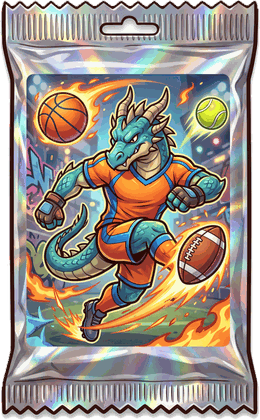
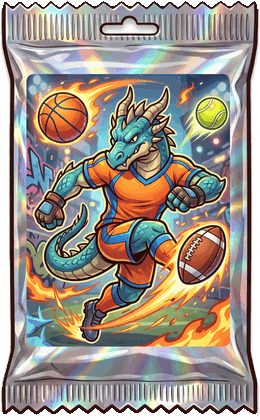
Booster : bas du paquet re-détouré, reflet fluide qui suit la forme du paquet, icône du bouton qui ne cache plus le texte

diff --git a/js/assets.js b/js/assets.js
@@ -1,3 +1,3 @@
 /* généré par tools/manifest.py */
 window.ASSETS = ["ach-aga100", "ach-agr3", "ach-bets50", "ach-bets500", "ach-boo50", "ach-car1", "ach-car7", "ach-cards30", "ach-cards60", "ach-club10", "ach-combi20", "ach-combi3", "ach-cool50", "ach-cr10", "ach-crp25", "ach-dance30", "ach-deal10", "ach-deal50", "ach-decos5", "ach-first-bet", "ach-garage3", "ach-gold5", "ach-hodl", "ach-item10", "ach-jackpot", "ach-look2", "ach-lvl10", "ach-lvl20", "ach-mine10", "ach-mine200", "ach-prop1", "ach-prop4", "ach-quests5", "ach-resell25", "ach-rigmax", "ach-roul50", "ach-roul500", "ach-scr50", "ach-scr500", "ach-ser1", "ach-ser5", "ach-skin3", "ach-slots4", "ach-sneak5", "ach-spin100", "ach-spin1000", "ach-stk10", "ach-stock50", "ach-streak7", "ach-tip20", "ach-w100k", "ach-w10k", "ach-w1m", "ach-watch3", "ach-win10", "ach-win100", "ach-win500", "act-collab", "act-live", "act-rest", "act-shoot", "act-trip", "app-agence", "app-bank", "app-bets", "app-binder", "app-boosters", "app-crypto", "app-immo", "app-infos", "app-missions", "app-msg", "app-objets", "app-settings", "art-c-signed", "art-cdm-bal", "art-cdm-citrouille", "art-cdm-coupe", "art-cdm-demon", "art-cdm-fantome", "art-cdm-lune", "art-cdm-vampire", "art-cdm-zombie", "art-coach-foot", "art-coach-tennis", "art-fan-ultra", "art-k-b1", "art-k-b10", "art-k-b11", "art-k-b12", "art-k-b2", "art-k-b3", "art-k-b4", "art-k-b5", "art-k-b6", "art-k-b7", "art-k-b8", "art-k-b9", "art-k-f1", "art-k-f10", "art-k-f11", "art-k-f12", "art-k-f13", "art-k-f14", "art-k-f15", "art-k-f16", "art-k-f17", "art-k-f18", "art-k-f19", "art-k-f2", "art-k-f20", "art-k-f21", "art-k-f22", "art-k-f23", "art-k-f24", "art-k-f3", "art-k-f4", "art-k-f5", "art-k-f6", "art-k-f7", "art-k-f8", "art-k-f9", "art-k-r1", "art-k-r2", "art-k-r3", "art-k-r4", "art-k-r5", "art-k-r6", "art-k-t1", "art-k-t10", "art-k-t11", "art-k-t12", "art-k-t2", "art-k-t3", "art-k-t4", "art-k-t5", "art-k-t6", "art-k-t7", "art-k-t8", "art-k-t9", "art-mascot", "art-ref-foot", "art-six-cap-1", "art-six-cap-2", "art-six-cap-3", "badge-xe", "bed-laptop-f", "bed-laptop-m", "bg-city", "bg-city-hiver", "bg-city-neon", "bg-city-or", "bg-city-renov", "bld-appart", "bld-appart-hiver", "bld-appart-neon", "bld-appart-or", "bld-appart-renov", "bld-balto", "bld-balto-hiver", "bld-balto-neon", "bld-balto-or", "bld-balto-renov", "bld-bijou", "bld-casino", "bld-casino-hiver", "bld-casino-neon", "bld-casino-or", "bld-casino-renov", "bld-club", "bld-club-hiver", "bld-club-or", "bld-club-renov", "bld-garage", "bld-kiosque", "bld-kiosque-hiver", "bld-kiosque-neon", "bld-kiosque-or", "bld-kiosque-renov", "bld-parking", "bld-parking-hiver", "bld-parking-neon", "bld-parking-or", "bld-parking-renov", "bld-shop", "bld-shop-hiver", "bld-shop-neon", "bld-shop-or", "bld-shop-renov", "bld-six", "bld-six-hiver", "bld-six-neon", "bld-six-off", "bld-six-or", "bld-six-renov", "bld-tour", "bonus-airdrop", "bonus-cash", "bonus-freebet", "bonus-lingots", "bonus-ticket", "bonus-xp", "booster-pack", "btn-momo", "btn-setup", "btn-upgrade", "card-back", "card-back-crea", "card-bg-basket", "card-bg-foot", "card-bg-rugby", "card-bg-tennis", "casino-machine", "cat-car", "cat-card", "cat-crea", "cat-gem", "cat-gold", "cat-moto", "cat-sneaker", "cat-trophy", "cat-watch", "chip-1", "chip-10", "chip-100", "chip-25", "chip-5", "chip-500", "club-door", "club-room", "coin-btk", "coin-dgk", "coin-eta", "coin-lmn", "coin-ppc", "coin-slr", "cr-eva", "cr-ines", "cr-jade", "cr-kim", "cr-leila", "cr-lola", "cr-mila", "cr-nora", "cr-rose", "cr-sasha", "cred-boss", "cred-caid", "cred-hustler", "cred-magnat", "crest-b1", "crest-b10", "crest-b11", "crest-b12", "crest-b2", "crest-b3", "crest-b4", "crest-b5", "crest-b6", "crest-b7", "crest-b8", "crest-b9", "crest-f1", "crest-f10", "crest-f11", "crest-f12", "crest-f13", "crest-f14", "crest-f15", "crest-f16", "crest-f17", "crest-f18", "crest-f19", "crest-f2", "crest-f20", "crest-f21", "crest-f22", "crest-f23", "crest-f24", "crest-f3", "crest-f4", "crest-f5", "crest-f6", "crest-f7", "crest-f8", "crest-f9", "crest-r1", "crest-r2", "crest-r3", "crest-r4", "crest-r5", "crest-r6", "deco-chaudron", "deco-citrouilles", "deco-dc-arcade", "deco-dc-ball", "deco-dc-bench", "deco-dc-car", "deco-dc-flags", "deco-dc-fountain", "deco-dc-kebab", "deco-dc-lamp", "deco-dc-palm", "deco-dc-posts", "deco-dc-statue", "deco-dc-trophy", "deco-toiles", "deco-tombe", "ev-boost", "ev-cdm-bg", "ev-cdm-board", "ev-cdm-candy", "ev-cdm-chest", "ev-cdm-cup", "ev-rig", "ev-sale", "ev-xp", "frame-cdm", "frame-gold", "frame-six", "full-c-ace", "full-c-ballon", "full-c-dunk", "full-c-essai", "full-c-final", "full-c-goat", "full-c-graded", "full-coach", "full-k-b4", "full-k-f4", "full-k-f8", "full-k-t1", "full-rookie", "full-six-leg-kick", "full-six-leg-trophy", "fx-smoke", "gear-cam", "gear-cosplay", "gear-gown", "gear-mic", "gear-ring", "gear-spa", "gear-sport", "gear-studio", "gear-travel", "gift-big", "gift-open", "graded-slab", "guide", "hab-club", "hab-drink", "hab-smoke", "hdr-daily", "hdr-levelup", "hdr-missions", "hdr-settings", "ic-ad-reward", "ic-bell", "ic-burn", "ic-bus", "ic-club-bar", "ic-club-dance", "ic-club-dj", "ic-club-door", "ic-club-lounge", "ic-club-vip", "ic-down", "ic-ev-cdm", "ic-fan", "ic-flame", "ic-heat", "ic-info", "ic-mood", "ic-pickaxe", "ic-promo", "ic-promo-bf", "ic-promo-halloween", "ic-promo-noel", "ic-rumor", "ic-shelf", "ic-shop-lingots", "ic-shop-ville", "ic-sport-all", "ic-sport-basket", "ic-sport-foot", "ic-sport-tennis", "ic-subs", "ic-target", "ic-timer", "ic-truck", "ic-unlock", "ic-up", "ic-videur", "ic-virus", "icon-arrowL", "icon-arrowR", "icon-bolt", "icon-cash", "icon-check", "icon-dice", "icon-gear", "icon-gift", "icon-lingot", "icon-lock", "icon-mute", "icon-sound", "icon-star", "icon-treasure", "icon-trophy", "item-c-1st", "item-c-dragon", "item-c-holo", "item-c-psa10", "item-c-signed", "item-cr-betonnard", "item-cr-biscotto", "item-cr-bitumouche", "item-cr-canardo", "item-cr-chenillette", "item-cr-cosmo", "item-cr-crocodalle", "item-cr-electrochat", "item-cr-escargoat", "item-cr-fenekko", "item-cr-flamenkoh", "item-cr-fourmidable", "item-cr-golemneon", "item-cr-gorilleur", "item-cr-grenouf", "item-cr-herissnik", "item-cr-hiboss", "item-cr-kaiju", "item-cr-kebabzor", "item-cr-kraken", "item-cr-licornette", "item-cr-liontours", "item-cr-louperiph", "item-cr-matouz", "item-cr-moustikass", "item-cr-pandagrillz", "item-cr-parrain", "item-cr-phenix", "item-cr-pigeonnard", "item-cr-poubellou", "item-cr-ratchou", "item-cr-requinoir", "item-cr-scarabling", "item-cr-serpentdor", "item-cr-taupecash", "item-cr-tigresko", "item-cr-trotilezard", "item-cr-yetiz", "item-g-comic", "item-g-diam", "item-g-earrings", "item-g-egg", "item-g-emerald", "item-g-pearl", "item-g-roman", "item-g-ruby", "item-g-sapphire", "item-g-stamp", "item-m-cafe", "item-m-chopper", "item-m-cross", "item-m-road", "item-m-scoot", "item-m-sport", "item-m-touring", "item-m-trike", "item-o-bar10", "item-o-bar100", "item-o-chain", "item-o-lion", "item-o-napo", "item-o-nugget", "item-o-ring", "item-p-flat", "item-p-office", "item-p-park", "item-p-studio", "item-s-basket", "item-s-camo", "item-s-chunky", "item-s-collab", "item-s-court", "item-s-gold", "item-s-graff", "item-s-lux", "item-s-moon", "item-s-neon", "item-s-retro", "item-s-runner", "item-s-skate", "item-st-kbc", "item-st-mtr", "item-st-nbk", "item-st-pxl", "item-st-sol", "item-st-stw", "item-t-collect", "item-t-combi", "item-t-first", "item-t-hodl", "item-t-jackpot", "item-v-city", "item-v-electric", "item-v-gti", "item-v-hyper", "item-v-muscle", "item-v-pickup", "item-v-rally", "item-v-super", "item-v-unique", "item-v-van", "item-w-chrono", "item-w-digital", "item-w-diver", "item-w-field", "item-w-grail", "item-w-iced", "item-w-pilot", "item-w-pocket", "item-w-quartz", "item-w-sq", "item-w-steel", "item-w-tourb", "item-w-unique", "load-1", "load-2", "load-3", "load-4", "load-5", "load-6", "load-7", "load-8", "logo", "medal-bronze", "medal-gold", "medal-silver", "minerv-0", "minerv-1", "minerv-2", "minerv-3", "minerv-4", "nav-bets", "nav-city", "nav-home", "nav-shop", "nav-trading", "nav-wallet", "niche-beaute", "niche-bienetre", "niche-cuisine", "niche-danse", "niche-fitness", "niche-gaming", "niche-mode", "niche-musique", "niche-voyage", "pack-collec", "pack-magnat", "pack-noads", "pack-pass", "pack-start", "parking-bg", "parking-bg-2", "parking-bg-3", "parking-bg-4", "parking-bg-5", "pc-0", "pc-1", "pc-2", "pcv-0", "pcv-1", "pcv-2", "pcv-r1", "pcv-r2", "pcv-r3", "pcv-r4", "phone-wall", "pin-demons", "pin-fantomes", "pin-gold", "pin-vampires", "pin-zombies", "player-t1", "player-t10", "player-t11", "player-t12", "player-t2", "player-t3", "player-t4", "player-t5", "player-t6", "player-t7", "player-t8", "player-t9", "pop-starter", "rig-0", "rig-1", "rig-2", "rig-3", "rig-4", "rigv-0", "rigv-1", "rigv-2", "rigv-3", "rigv-4", "ringlight", "room-f-0", "room-f-1", "room-f-2", "room-m-0", "room-m-1", "room-m-2", "roulette-felt", "roulette-hub", "scr-beer", "scr-burger", "scr-cap", "scr-dice", "scr-headphones", "scr-scooter", "shop-hero", "shop-lingot-1", "shop-lingot-2", "shop-lingot-3", "shop-lingot-4", "shop-lingot-5", "shop-lingot-6", "skin-boss", "skin-boss-bust", "skin-doudoune", "skin-doudoune-bust", "skin-flambeur", "skin-flambeur-bust", "skin-gold", "skin-gold-bust", "skin-hoodie", "skin-hoodie-bust", "skin-sportive", "skin-sportive-bust", "skin-survet", "skin-survet-bust", "slot-bar", "slot-bell", "slot-cherry", "slot-diam", "slot-lemon", "slot-seven", "team-demons", "team-fantomes", "team-vampires", "team-zombies", "ticket-flash", "tip-crypto", "tip-market", "tip-sport", "tk-astro", "tk-banco", "tk-black", "tk-flash", "tk-millio", "tk-morpion", "tkbg-astro", "tkbg-banco", "tkbg-black", "tkbg-flash", "tkbg-millio", "tkbg-morpion", "ui-avatar-frame", "ui-badge", "ui-bar-fill", "ui-bar-frame", "ui-btn-blue", "ui-btn-close", "ui-btn-green", "ui-btn-grey", "ui-btn-plus", "ui-btn-purple", "ui-btn-red", "ui-btn-yellow", "ui-card", "ui-casino-frame", "ui-casino-header", "ui-navbtn", "ui-panel", "ui-pill", "ui-ribbon", "ui-tab-off", "ui-tab-on", "ui-tuto-arrow", "wx-bear", "wx-bull", "wx-calm", "wx-fomo", "wx-krach"];
-window.ASSET_V = 1791447012;
+window.ASSET_V = 1791447196;

diff --git a/css/style.css b/css/style.css
@@ -830,9 +830,10 @@ h3.sec { margin: 18px 6px 10px; }
 .bst-pack { position: relative; width: 140px; height: 190px; margin: 0 auto; display: grid; place-items: center; overflow: hidden; }
 .bst-pack .pic { width: 100%; height: 100%; }
 .bst-pack .pic img { filter: drop-shadow(0 4px 0 rgba(42,26,16,.35)); }
-.bst-pack .bst-gloss { position: absolute; inset: -40%; background: linear-gradient(115deg, transparent 42%, rgba(255,255,255,.45) 50%, transparent 58%); animation: bstShine 2.6s linear infinite; pointer-events: none;
-  -webkit-mask: url(../assets/img/booster-pack.png) center / 58% no-repeat; mask: url(../assets/img/booster-pack.png) center / 58% no-repeat; }
-@keyframes bstShine { from { transform: translateX(-30%); } to { transform: translateX(30%); } }
+/* reflet : une bande de lumière qui traverse le paquet en continu, découpée à la forme du paquet (le masque ne bouge pas, seule la lumière glisse) */
+.bst-pack .bst-gloss { position: absolute; inset: 0; pointer-events: none; background: linear-gradient(115deg, transparent 0 38%, rgba(255,255,255,.2) 44%, rgba(255,255,255,.7) 50%, rgba(255,255,255,.2) 56%, transparent 62% 100%) no-repeat; background-size: 300% 100%;
+  animation: bstShine 3.6s linear infinite; -webkit-mask: url(../assets/img/booster-pack.png) center / contain no-repeat; mask: url(../assets/img/booster-pack.png) center / contain no-repeat; }
+@keyframes bstShine { 0% { background-position: 100% 0; } 60%, 100% { background-position: 0% 0; } }
 #app .bst-defis { display: flex; align-items: center; gap: 10px; padding: 12px 14px; border: 2px solid #2a1a10; border-radius: 16px; box-shadow: 0 3px 0 #2a1a10; background: #fffdf6; }
 #app .bst-defis.hot { background: linear-gradient(#ecfae2, #c9f5a0); }
 #app .bst-defis .bd-ic .ic { width: 38px; height: 38px; }
@@ -3515,3 +3516,5 @@ html.lowfx #app .room-stage .room-obj.hot::after, html.lowfx #app .room-stage .r
 #app .levelup > .grid2:last-child { position: sticky; bottom: -2px; z-index: 5; margin: 8px -14px -14px; padding: 10px 14px 14px; background: linear-gradient(rgba(255, 246, 225, 0), #fff6e1 30%); }
 #app .unlocks .ul-big .ul-ic, #app .ul-look { height: 120px; } #app .unlocks .ul-look img.ull-b { height: 86px; }
 #app .lv-gift .item-big { max-height: 80px; } #app .lv-gift .item-big img { max-height: 80px; width: auto; }
+
+#app #btn-booster .bst-mini { width: 30px; height: 32px; } #app #btn-booster .bst-mini img { width: auto !important; height: 32px !important; max-width: 30px; object-fit: contain; }

diff --git a/game.html b/game.html
@@ -148,7 +148,7 @@
   // Chargement du jeu. En local : les fichiers du dossier. Mis à jour depuis internet (index.html) : le code vient
   // de raw.githubusercontent (rapide et toujours à jour), les images du dossier local quand on joue sur son ordi.
   (function () {
-    var V = '?v=410', FILES = ['js/layout.js', 'js/data.js', 'js/content.js', 'js/assets.js', 'js/game.js', 'js/audio.js', 'js/ui.js', 'js/casino.js', 'js/scratch.js', 'js/balto.js', 'js/agence.js', 'js/tuto.js', 'js/online.js', 'js/push.js'].slice(), CSS = 'css/style.css';
+    var V = '?v=412', FILES = ['js/layout.js', 'js/data.js', 'js/content.js', 'js/assets.js', 'js/game.js', 'js/audio.js', 'js/ui.js', 'js/casino.js', 'js/scratch.js', 'js/balto.js', 'js/agence.js', 'js/tuto.js', 'js/online.js', 'js/push.js'].slice(), CSS = 'css/style.css';
     var m = document.baseURI.match(/^https:\/\/cdn\.jsdelivr\.net\/gh\/([^@]+)@([^/]+)\//);
     if (!m) {
       document.write('<link rel="stylesheet" href="' + CSS + V + '">');
